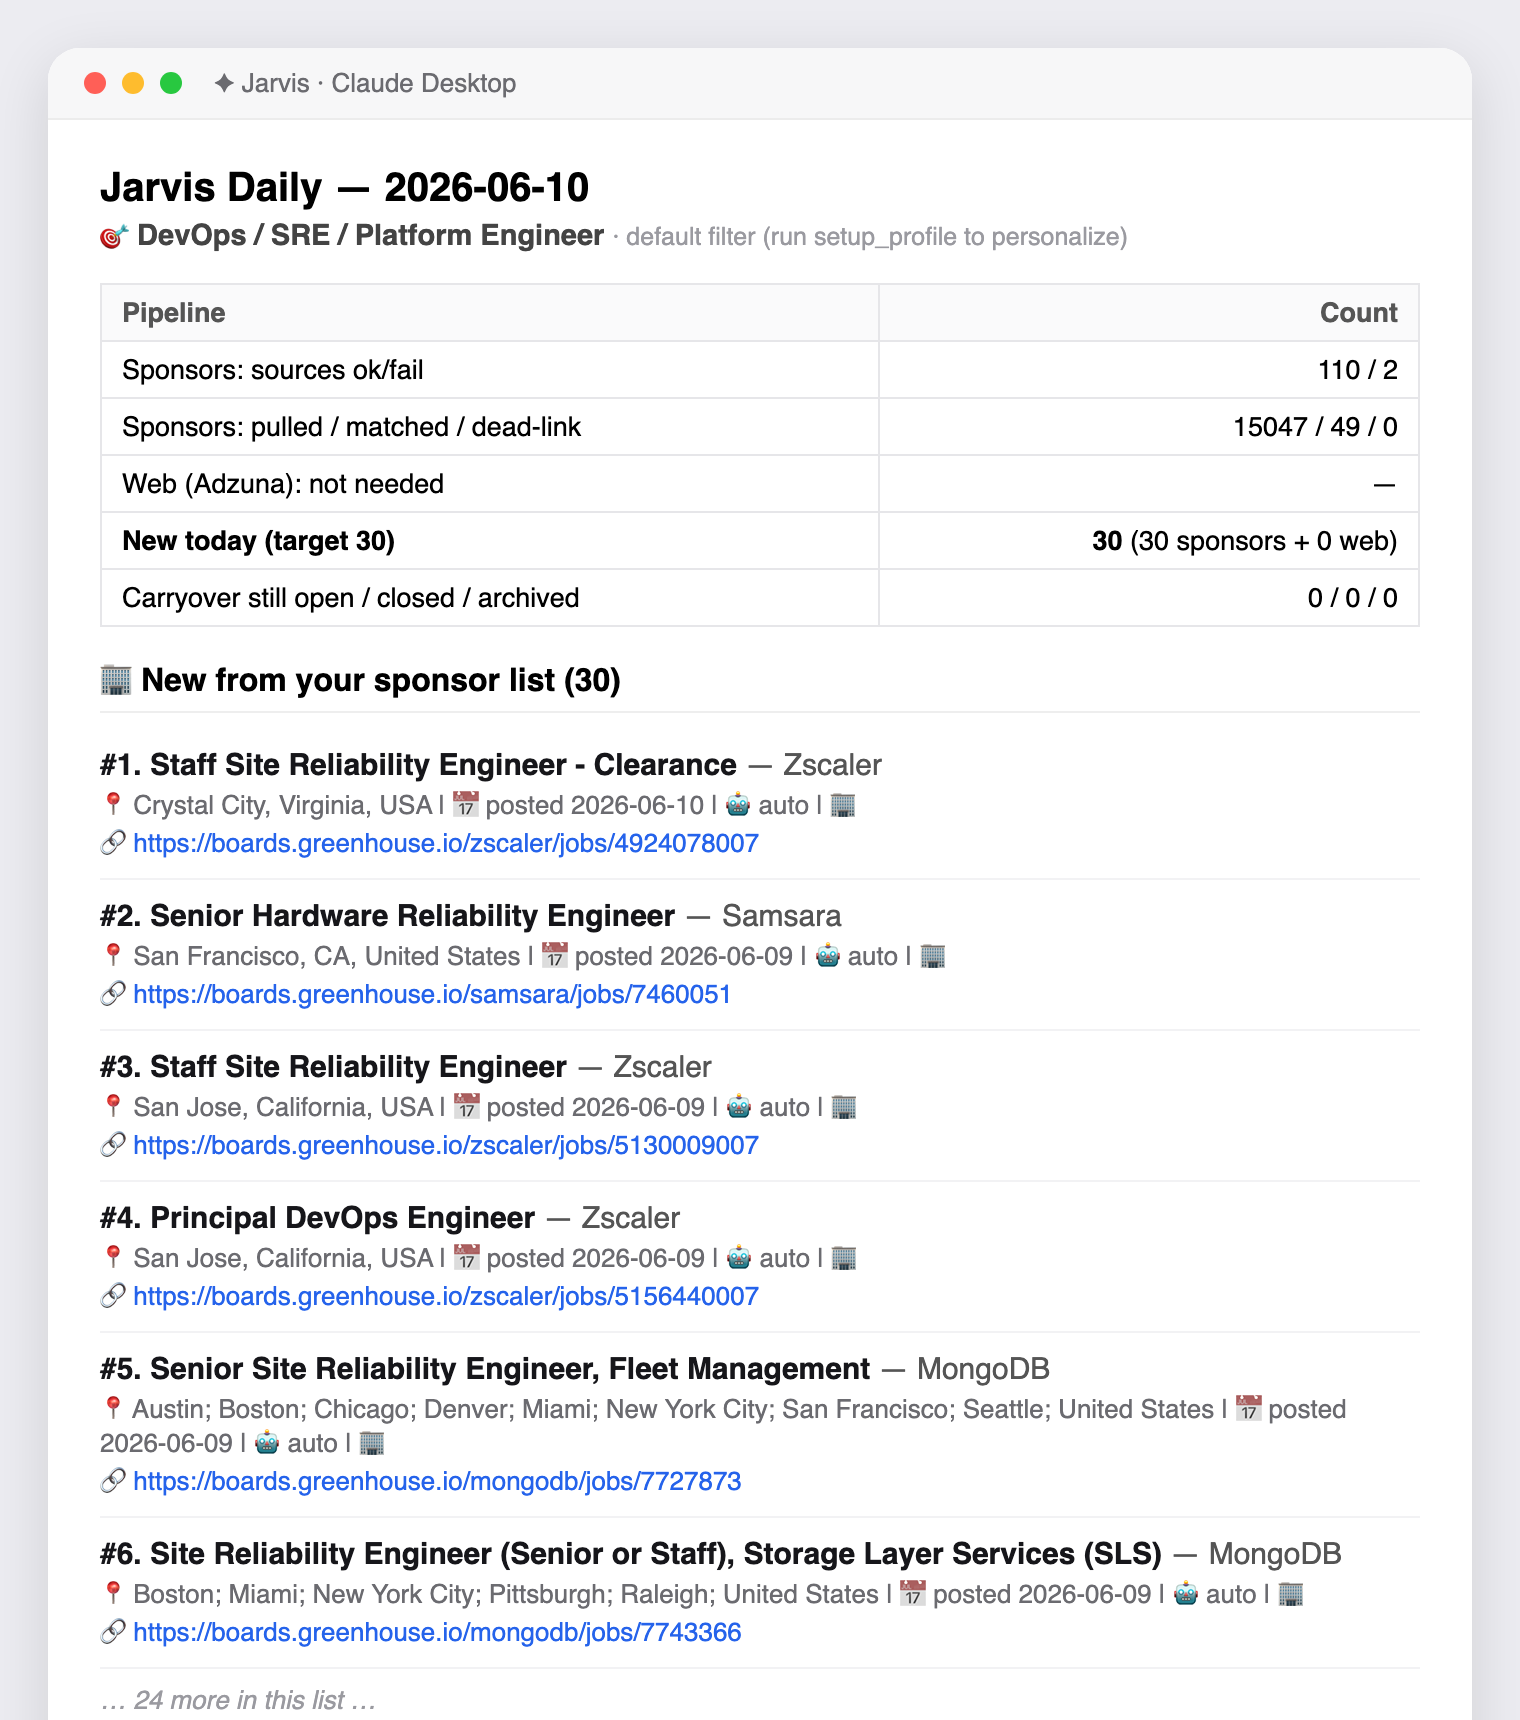
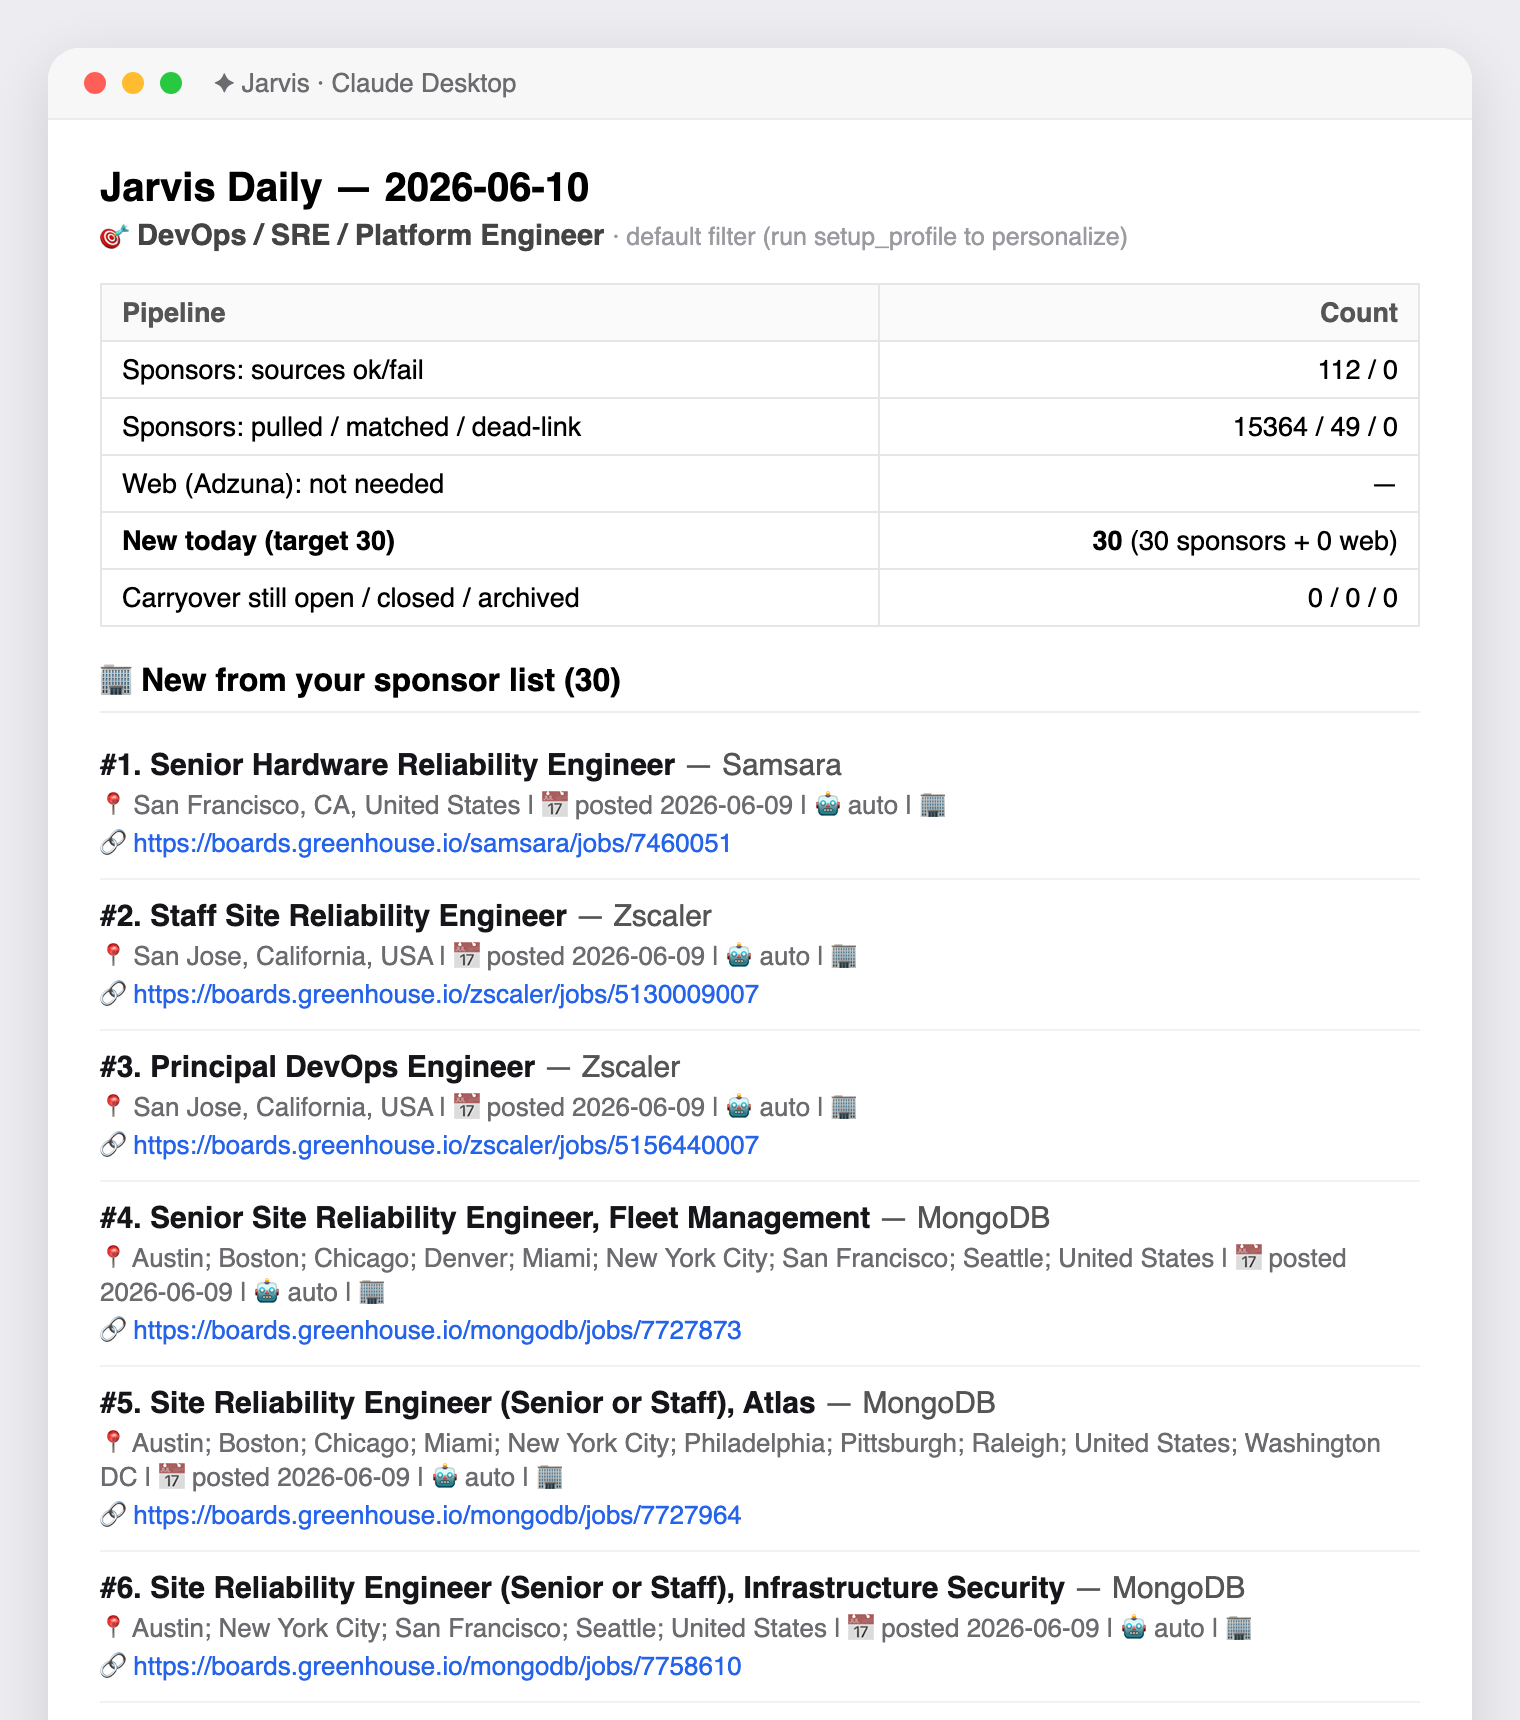
Tighten the clearance/eligibility gate (negation-aware)
Catch bare "clearance", "secret clearance", "public trust", and "polygraph"
(the reported "...SRE - Clearance" slipped through before), while NOT dropping
postings that say the requirement is not needed ("clearance not required",
"US citizenship not required"). Update profile.example.yaml and refresh the
README screenshot from a fresh run (0 clearance roles now delivered).

diff --git a/jarvis_sourcing.py b/jarvis_sourcing.py
@@ -41,7 +41,8 @@ TITLE_EXCLUDE = ["intern", "manager", "director", "principal architect",
                  "equipment reliability", "plant reliability", "maintenance"]
 ELIGIBILITY_EXCLUDE = ["security clearance", "ts/sci", "top secret",
                        "us citizenship required", "u.s. citizenship", "itar",
-                       "active clearance"]
+                       "active clearance", "secret clearance", "public trust",
+                       "polygraph", "clearance"]
 US_HINTS = ["united states", "usa", ", us", "remote - us", "us remote",
             "remote (us", "u.s.", "us-remote", "remote, us"]
 US_STATE = re.compile(r",\s*[A-Z]{2}(\b|$)")          # "Austin, TX"
@@ -256,9 +257,21 @@ def _gate_location(loc: str) -> bool:
     return any(h in low for h in US_HINTS) or bool(US_STATE.search(loc))
 
 
+_ELIG_NOT_REQUIRED = re.compile(
+    r"\b(no|not|without|don'?t|do not|doesn'?t|isn'?t)\b[^.\n]{0,25}"
+    r"\b(clearance|polygraph|citizenship)\b"
+    r"|\b(clearance|polygraph|citizenship)\b[^.\n]{0,25}\bnot\b[^.\n]{0,12}"
+    r"\b(required|needed|necessary)\b")
+
+
 def _gate_eligibility(t: str, exclude: list[str]) -> bool:
+    """Reject clearance / citizenship / ITAR-gated roles (visa-ineligible for an
+    H-1B holder). A posting that explicitly says such a requirement is NOT needed
+    still passes — so 'clearance' is caught, but 'clearance not required' isn't."""
     t = t.lower()
-    return not any(x in t for x in exclude)
+    if not any(x in t for x in exclude):
+        return True
+    return bool(_ELIG_NOT_REQUIRED.search(t))
 
 
 def passes_content_gates(title: str, location: str, profile: dict | None = None) -> bool: